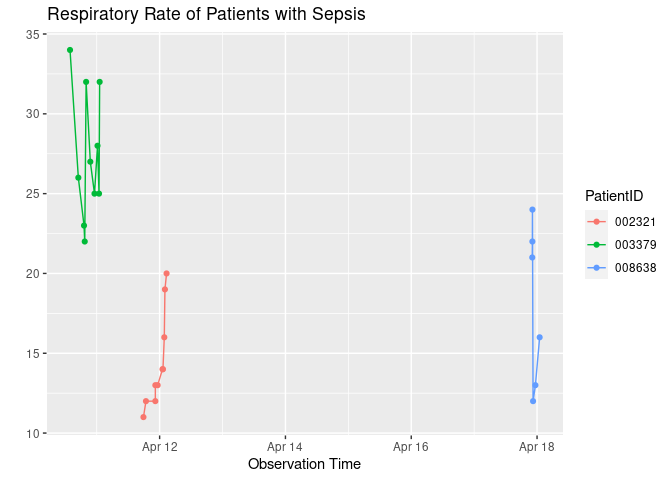
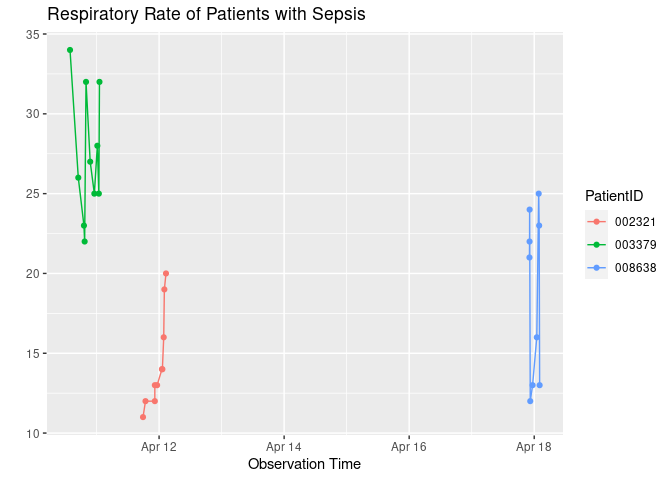
Updated report

diff --git a/README.md b/README.md
@@ -8,13 +8,13 @@ Yansong Wen
 
 \#TASK 4
 
-    [1] "2023-04-18 01:20:43 UTC"
+    [1] "2023-04-18 02:33:16 UTC"
 
-| PatientID |  HR |  Temp | Resp |
-|:----------|----:|------:|-----:|
-| 002321    | 102 |    NA |   20 |
-| 003379    |  85 |    NA |   32 |
-| 008638    | 105 | 37.67 |   16 |
+| PatientID |  HR | Temp | Resp |
+|:----------|----:|-----:|-----:|
+| 002321    | 102 |   NA |   20 |
+| 003379    |  85 |   NA |   32 |
+| 008638    | 112 |   NA |   13 |
 
 ![](README_files/figure-commonmark/unnamed-chunk-4-1.png)
 
@@ -68,7 +68,7 @@ Yansong Wen
 | 007742    |  NA |    NA |    NA |
 | 007753    |  NA |    NA |    NA |
 | 008527    |  NA |    NA |    NA |
-| 008638    |   0 |  -0.5 |     3 |
+| 008638    |  -2 |    NA |   -10 |
 | 008639    |  -4 |    NA |     2 |
 | 008828    |   6 |   0.0 |    -5 |
 | 009301    |   4 |    NA |     0 |
